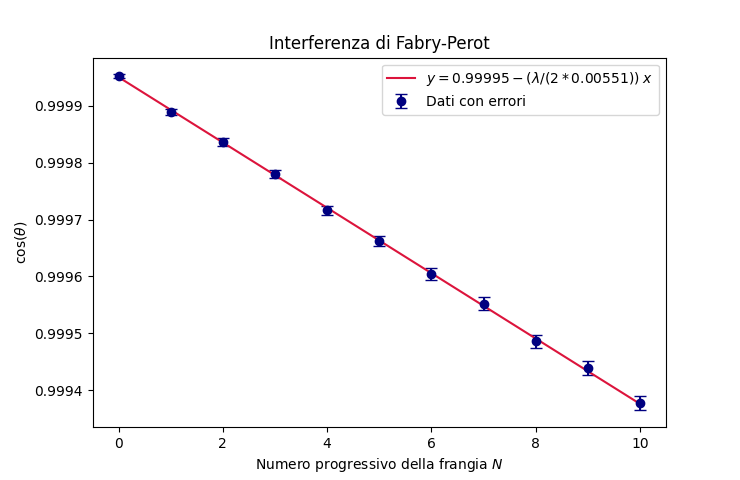
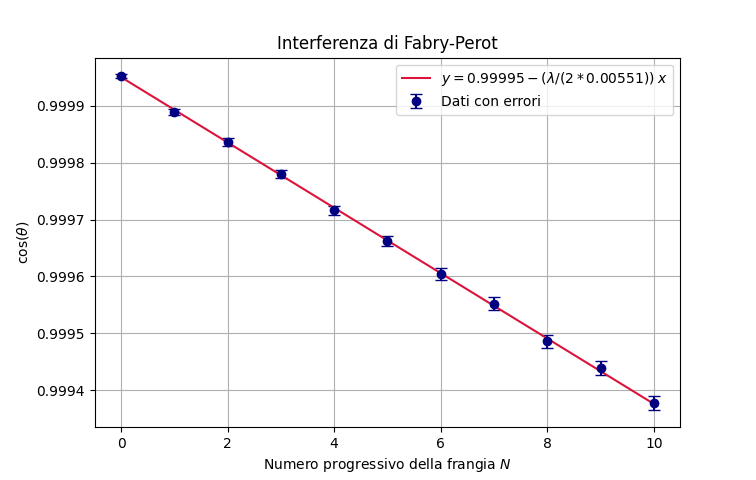
griglia...

diff --git a/fabry_perot_corretto.py b/fabry_perot_corretto.py
@@ -96,5 +96,6 @@ if __name__ == "__main__":
 
     print (f"d = {d_fit * 1e3:.5f} ± {m.errors['d'] * 1e3:.5f} mm")
 
-    ax.legend()
+    plt.grid (True)
+    plt.legend()
     plt.show()
